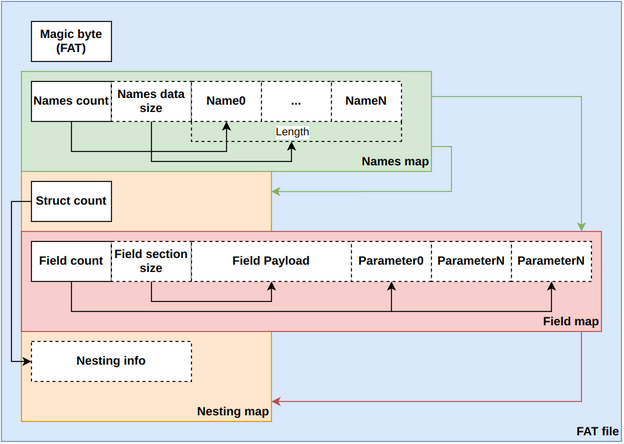
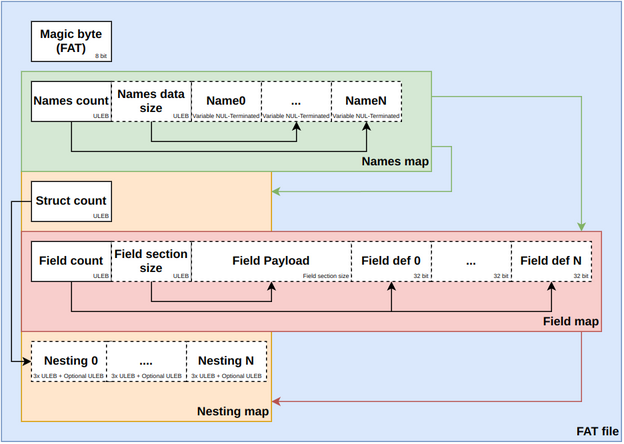
Fully document fat BLK

diff --git a/src/blk/mod.rs b/src/blk/mod.rs
@@ -13,8 +13,9 @@
 //! - nm -> A file containing Strings that is not in the BLK binary itself
 //! - dict -> A ZSTD dictionary used in batch compressing many BLK files
 //! - ULEB -> Unsigned LEB encoded variable length integer format: `https://en.wikipedia.org/wiki/LEB128`
+//! - Name/Name map -> String as key or value in the BLK, map is an array of Strings
 //!
-//! ## Types
+//! ### Types
 //! BLK has 12 data-types
 //!
 //! |Name|Byte identifier|Layout|Size in bytes|[Inline](#inlining)|
@@ -33,10 +34,10 @@
 //! |Long|0x0c|i64|8||
 //!
 //! ### Inlining
-//! When a type is inline, it means that its offset field contains the types data (used for small types 32 bits or smaller).  
-//! Otherwise, the type data is an offset where the actual payload can be found.  
+//! When a type is inline, it means that its offset field contains the types data (used for small types 32 bits or smaller).
+//! Otherwise, the type data is an offset where the actual payload can be found.
 //!
-//! ## Kinds of BLK files
+//! ### Kinds of BLK files
 //! There is not just one type of BLK, there are some important differences to denote.
 //! |Byte ID|String ID|Description|
 //! |-|-|-|
@@ -46,12 +47,93 @@
 //! |0x03|SLIM|A BLK like FAT, but with all strings outlined to the nm|
 //! |0x04|SLIM_ZST|Same as SLIM, but ZSTD compressed|
 //! |0x05|SLIM_ZSTD_DICT|Same as SLIM, but ZSTD compressed using the dict|
-//! 
+//!
+//! ### Name reference
+//! Whenever a String is used in the name-map or field-map, this layout applies.
+//! If the tag-bit is set, it means the index has to be looked up from the [external nm](#external-nm), otherwise the regular [nm](#name-map),
+//! |Tag|Index|
+//! |-|-|
+//! |1 bit| 31 bit unsigned integer|
+//!
 //! ## File layout
-//! Now that we understand all necessary terms and types for BLK, were almost ready to encode/decode them.  
+//! Now that we understand all necessary terms and types for BLK, were almost ready to encode/decode them.
 //! I will first explain the layout of a regular FAT file, then elaborate on the differences to the other kinds.
-//! # Illustration of the fat BLK
 //! ![Illustration](https://raw.githubusercontent.com/Warthunder-Open-Source-Foundation/wt_blk/refs/heads/master/charts/rendered/fat_blk_layout.png)
+//! The file starts off with a single byte describing its [kind](#kinds-of-blk-files), FAT in this case, of course.
+//! After that, we begin the first section of data already called the [Name map].
+//!
+//! ### Name Map
+//! Defines where any Strings used as keys or values in this BLK.
+//! In the case of SLIM, only the names count ULEB will be present, skipping straight to the [struct count](#struct-count).
+//! In the case of FAT, following the names count (ULEB) N is the names buffer size (ULEB) S.
+//! After this comes all null seperated strings that should be as many as N specified.
+//!
+//! ### Block count
+//! A single ULEB defining how many nested structs the BLK file contains (used later).
+//!
+//! ### Field map
+//! Similar to the name map, here we first get the amount of fields followed by the size of the payload buffer.
+//! The field payloads come before the field definitions and therefore need to be used during the decoding of the fields.
+//! Each field definition is 32 bits in size structured as such:
+//! |[Name ID](#name-reference)|Type ID|Offset|
+//! |-|-|-|
+//! |u24|u8|u32|
+//! ---
+//! When the type is inline, simply interpret the offset as its payload.
+//! Otherwise, use the offset relative to the start of the payload buffer, reading as many bytes as the type needs.
+//!
+//! ### Nesting map
+//! Until now, we have only read and parsed a list of fields. But you may ask, doesn't BLK support nested structs?
+//! Indeed, it does, and it uses the following layout to figure out which fields and struct correspond to which parent struct.
+//! The data layout is as such:
+//! |Index|Struct name|field count|sub-structs count|sub-struct index (optional)|
+//! |-|-|-|-|
+//! |ULEB|[Name ID](#name-reference)|ULEB|ULEB|
+//! ---
+//! Explaining the algorithm necessary to structure this data is not trivial, so I will explain each value and its purpose with care.
+//! However, I believe that, reading [`crate::blk::blk_block_hierarchy::FlatBlock`] (implementation) together with this text will work better than just the text.
+//!
+//! To start off, we first get the index, which uniquely identifies any struct, where 0 is the root/core struct.
+//! Together with the index, we can determine the name, which is a [Name ID](#name-reference) or undefined and irrelevant if the index is 0.
+//! 
+//! Field `count` defines how many fields from [the field map](#field-map) belong to this struct in the order as they appear.
+//! Keeping track of the sum of previous`count`'s is important as current `count` starts from where the last field ended. 
+//! 
+//! Sub-structs count defines how many substructs there are.
+//! 
+//! Sub-structs index defines which other struct are contained in this one, using the same indexing system as field count.
+//! **This value is not present when sub-structs count was 0.**
+//! 
+//! This mechanism is best explained with an example to go with it:
+//! Lets use this BLK as our working minimal example:
+//! ```blk
+//! "vec4f":p4 = 1.25, 2.5, 5, 10
+//! "int":i = 42
+//! "long":i64 = 0x40
+//! "alpha" {
+//!		"str":t = "hello"
+//!		"bool":b = true
+//!		"color":c = 0x1, 0x2, 0x3, 0x4
+//!		"gamma" {
+//!			"vec2i":ip2 = 3, 4
+//!			"vec2f":p2 = 1.25, 2.5
+//!			"transform":m = [[1, 0, 0] [0, 1, 0] [0, 0, 1] [1.25, 2.5, 5]]
+//!		}
+//! }
+//! "beta" {
+//!		"float":r = 1.25
+//!		"vec2i":ip2 = 1, 2
+//!		"vec3f":p3 = 1.25, 2.5, 5
+//! }
+//!```
+//! The Nesting map would look like the following:
+//! |Index|Name|Indexes|Sub-blocks|Binary representation|
+//! |-|-|-|-|-|
+//! |0|N.A.|0,1,2|1,2|`0x00 0x03 0x02 0x01`|
+//! |1|alpha|3,4,5|3|`0x04 0x03 0x01 0x03` |
+//! |2|beta|6,7,8||`0x0C 0x03 0x00` |
+//! |3|gamma|9,10,11||`0x08 0x03 0x00` |
+
 use std::{
 	fs,
 	fs::ReadDir,
@@ -74,8 +156,8 @@ use crate::blk::{
 	zstd::decode_zstd,
 };
 
-/// Decodes flat map of fields into the corresponding nested datastructure
-mod blk_block_hierarchy;
+/// Decodes flat map of fields into the corresponding nested datastructures
+pub(crate) mod blk_block_hierarchy;
 
 /// Defines the recursive/nested structure that BLK files are represented with internally
 pub mod blk_structure;
